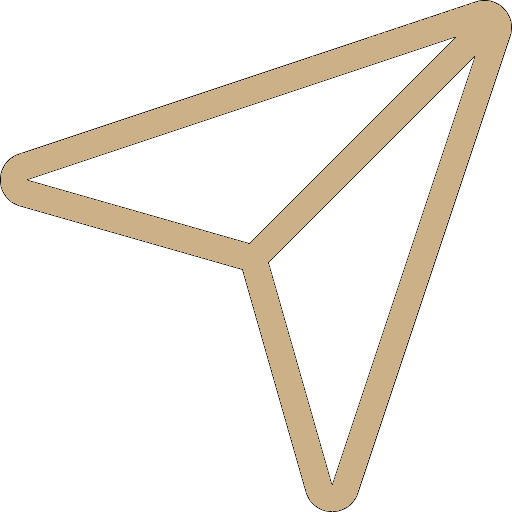
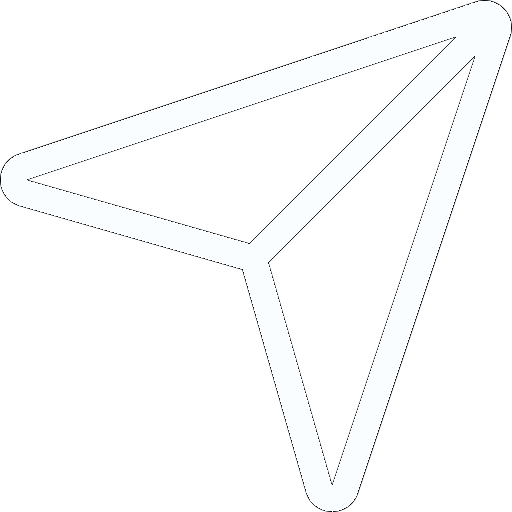
mudei as cores

Changed region(s): [[0.0, 0.0, 1.0, 1.0]]

diff --git a/my-app/src/components/SidebarChatsItem/index.js b/my-app/src/components/SidebarChatsItem/index.js
@@ -213,7 +213,7 @@ const SidebarChatsItem = ({ id, users, user, setUserChat, active }) => {
           {Avatar ? (
             <div className="relative">
               <C.ImagePhoto src={Avatar?.photoURL} alt="Avatar" />
-              <div className="absolute text-[#CBB088] top-5 left-[59px] text-xs">
+              <div className="absolute text-gray-400 top-5 left-[59px] text-xs">
                 <div className="flex w-[150px]">
                   <p className="truncate">{lastMsg || "Sem mensagens"}</p>
                 </div>
@@ -225,7 +225,7 @@ const SidebarChatsItem = ({ id, users, user, setUserChat, active }) => {
                 src={require("../../images/noPhoto.png")}
                 alt="Avatar"
               />
-              <div className="absolute text-[#CBB088] top-5 left-[59px] text-xs">
+              <div className="absolute text-gray-400 top-5 left-[59px] text-xs">
                 <div className="flex w-[150px]">
                   <p className="truncate">{lastMsg || "Sem mensagens"}</p>
                 </div>
@@ -236,7 +236,7 @@ const SidebarChatsItem = ({ id, users, user, setUserChat, active }) => {
         <div className="text-[#f3f3f3] absolute top-7 left-20">
           {item.split("@")[0]}
         </div>
-        <div className="absolute right-6 top-8 text-xs text-[#73665A] ">
+        <div className="absolute right-6 top-8 text-xs text-[#e4e6eb] ">
          {lastMsgTime}
         </div>
       </div>

diff --git a/my-app/src/components/Default/index.js b/my-app/src/components/Default/index.js
@@ -19,7 +19,7 @@ const Default = () => {
               />
               <path
                 d="M93.9676 39.0409C96.393 38.4038 97.8624 35.9116 97.0079 33.5539C95.2932 28.8227 92.871 24.3692 89.8167 20.348C85.8452 15.1192 80.8826 10.7238 75.2124 7.41289C69.5422 4.10194 63.2754 1.94025 56.7698 1.05124C51.7666 0.367541 46.6976 0.446843 41.7345 1.27873C39.2613 1.69328 37.813 4.19778 38.4501 6.62326C39.0873 9.04874 41.5694 10.4717 44.0505 10.1071C47.8511 9.54855 51.7191 9.52689 55.5402 10.0491C60.8642 10.7766 65.9928 12.5457 70.6331 15.2552C75.2735 17.9648 79.3347 21.5619 82.5849 25.841C84.9175 28.9121 86.7997 32.2913 88.1811 35.8758C89.083 38.2158 91.5421 39.6781 93.9676 39.0409Z"
-                fill="#CBB088"
+                fill="#e4e6eb"
               />
             </svg>
     </C.Container>

diff --git a/my-app/src/components/Message/styles.js b/my-app/src/components/Message/styles.js
@@ -9,16 +9,16 @@ export const Line = styled.div`
   white-space: pre-wrap;
   &.me {
     > div {
-      background: #cbb088;
+      background: #1877F2;
     }
     justify-content: right;
   }
 `;
 
 export const Content = styled.div`
-  background: #73665A;
+  background: #4E4F50;
   border-radius: 10px;
-  box-shadow: 0 1px 1px #cbb088;
+  box-shadow: 0 1px 1px #5f6162;
   display: flex;
   flex-direction: column;
   padding: 3px;
@@ -32,7 +32,7 @@ export const Message = styled.span`
 
 export const MessageDate = styled.span`
   font-size: 11px;
-  color: black;
+  color: #e4e6eb;
   text-align: right;
   height: 15px;
   margin: -5px 5px 0;

diff --git a/my-app/src/components/ChatFooter/styles.js b/my-app/src/components/ChatFooter/styles.js
@@ -1,7 +1,7 @@
 import styled from "styled-components";
 
 export const Container = styled.div`
-  background-color: #191818;  
+  background-color: #191717;  
   bottom: 0;
   width: 100%;
   padding: 15px 5px 15px 5px;
@@ -24,14 +24,11 @@ export const Input = styled.input`
   border-radius: 20px;
   width: 95%;
   box-shadow: inset 0 0 1px 1px #0003;
-  background-color: #73665a;
+  background-color: #4E4F50;
   text-color: white;
   ::placeholder { /* Chrome, Firefox, Opera, Safari 10.1+ */
-  color: #CBB088;
+  color: #a9aaab;
   opacity: 1; /* Firefox */
-  :focus,
-  :valid{
-    color:red;
-  }
+
 }
 `;

diff --git a/my-app/src/components/Loading/index.js b/my-app/src/components/Loading/index.js
@@ -4,7 +4,7 @@ import * as C from "./styles";
 
 const Loading = () => {
   return (
-    <div className="bg-[#191818] overflow-hidden overflow-x-hidden overflow-y-hidden">
+    <div className="bg-[#242526] overflow-hidden overflow-x-hidden overflow-y-hidden">
       <div className="shadow rounded-md p-4 max-w-sm w-full mx-auto">
         <div className="animate-pulse flex space-x-4">
           <div className="rounded-full bg-slate-700 h-10 w-10"></div>

diff --git a/my-app/src/components/Login/styles.js b/my-app/src/components/Login/styles.js
@@ -5,7 +5,7 @@ export const Container = styled.div`
   height: 100vh;
   align-items: center;
   justify-content: center;
-  background: #191818;
+  background: #242526;
   .login {
     display: flex;
     flex-direction: column;
@@ -45,7 +45,7 @@ export const Button = styled.button`
   border-radius: 200px;
   background: #73665A;
   width: 100%;
-  color: #CBB088;
+  color: #e4e6eb;
   font-weight: bold;
   span {
   }

diff --git a/my-app/src/components/ChatFooter/index.js b/my-app/src/components/ChatFooter/index.js
@@ -34,7 +34,7 @@ const ChatFooter = ({ chatId }) => {
           placeholder="Mensagem"
           onChange={(e) => setMessage(e.target.value)}
           value={message}
-          className="text-[#f2ebe2]"
+          className="text-[#e4e6eb]"
         />
 
         <img onClick={handleSendMessage} className="absolute right-8 h-6 w-6 lg:right-14 cursor-pointer" src={require("../../images/send.png")} alt="sendMsg" />

diff --git a/my-app/src/components/ChatBody/styles.js b/my-app/src/components/ChatBody/styles.js
@@ -1,12 +1,13 @@
 import styled from "styled-components";
 
 export const Container = styled.div`
-  background-color: #191818;
+  background-color: #242526;
   overflow-y: auto;
+  color: #e4e6eb;
   flex: 1;
 
   @media (min-width: 768px) {
-    background-color: #0f0e0e;
+    background-color: #191717;
   }
 
   &::-webkit-scrollbar {

diff --git a/my-app/src/components/ChatHeader/styles.js b/my-app/src/components/ChatHeader/styles.js
@@ -8,7 +8,7 @@ export const Container = styled.div`
   justify-content: space-between;
   box-shadow: 0 1px 2px #0003;
   z-index: 1;
-  background-color: #191818;
+  background-color: #1c1e21;
   box-shadow: 0 4px 30px rgba(0, 0, 0, 0.1);
   -webkit-backdrop-filter: blur(5px);
 

diff --git a/my-app/src/components/SidebarHeader/styles.js b/my-app/src/components/SidebarHeader/styles.js
@@ -3,7 +3,7 @@ import styled from "styled-components";
 export const Container = styled.div`
   height: 59px;
   padding: 0px 16px;
-  background-color: #2D2727;
+  background-color: #1c1e21;
   display: flex;
   align-items: center;
   justify-content: space-between;

diff --git a/my-app/src/styles/global.js b/my-app/src/styles/global.js
@@ -10,7 +10,7 @@ const GlobalStyle = createGlobalStyle`
     width: 100vw;
     height: 100vh;
     font-family:  'Segoe UI', Tahoma, Geneva, Verdana, sans-serif;
-    background-color: #191818;
+    background-color: #242526;
     overflow: hidden !important;
   }
 

diff --git a/my-app/src/components/Chat/index.js b/my-app/src/components/Chat/index.js
@@ -23,7 +23,7 @@ const Chat = ({ userChat }) => {
   return (
     <>
       {loading ? (
-        <div className="h-screen w-full bg-[#191818]">
+        <div className="h-screen w-full bg-[#242526]">
           <Default />
         </div>
       ) : (
